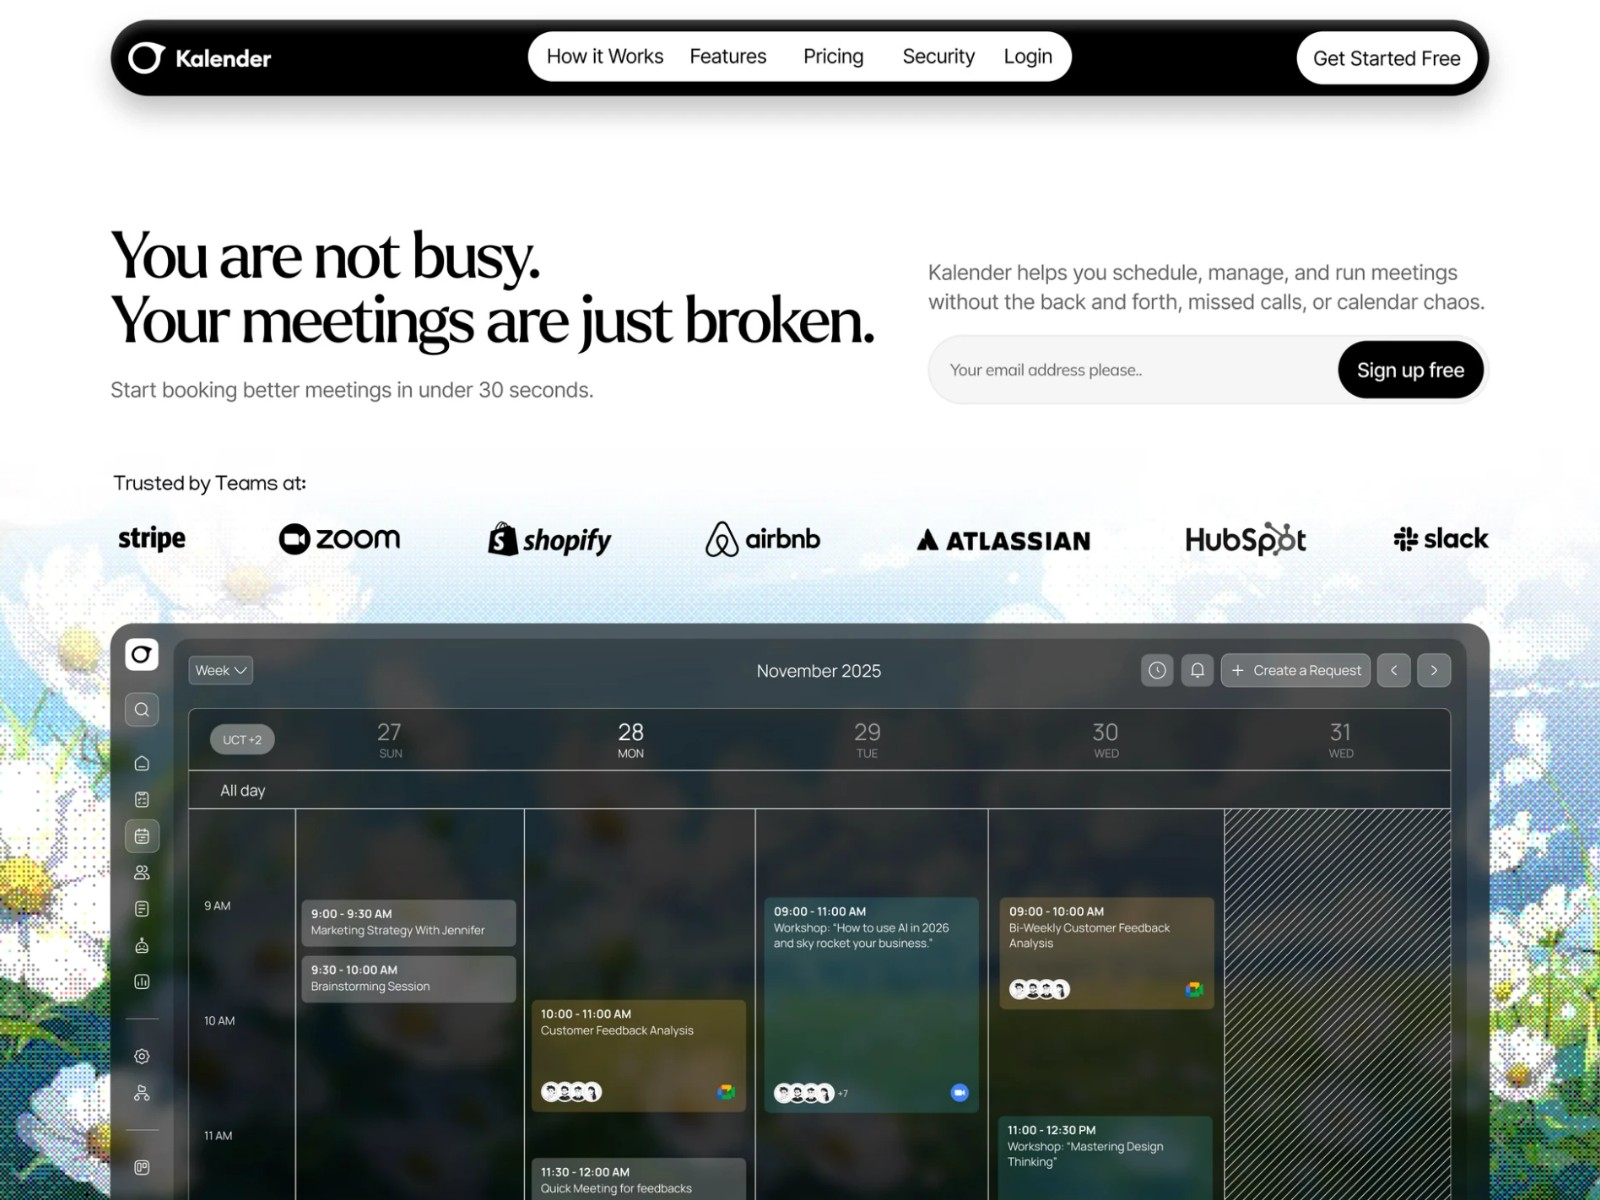
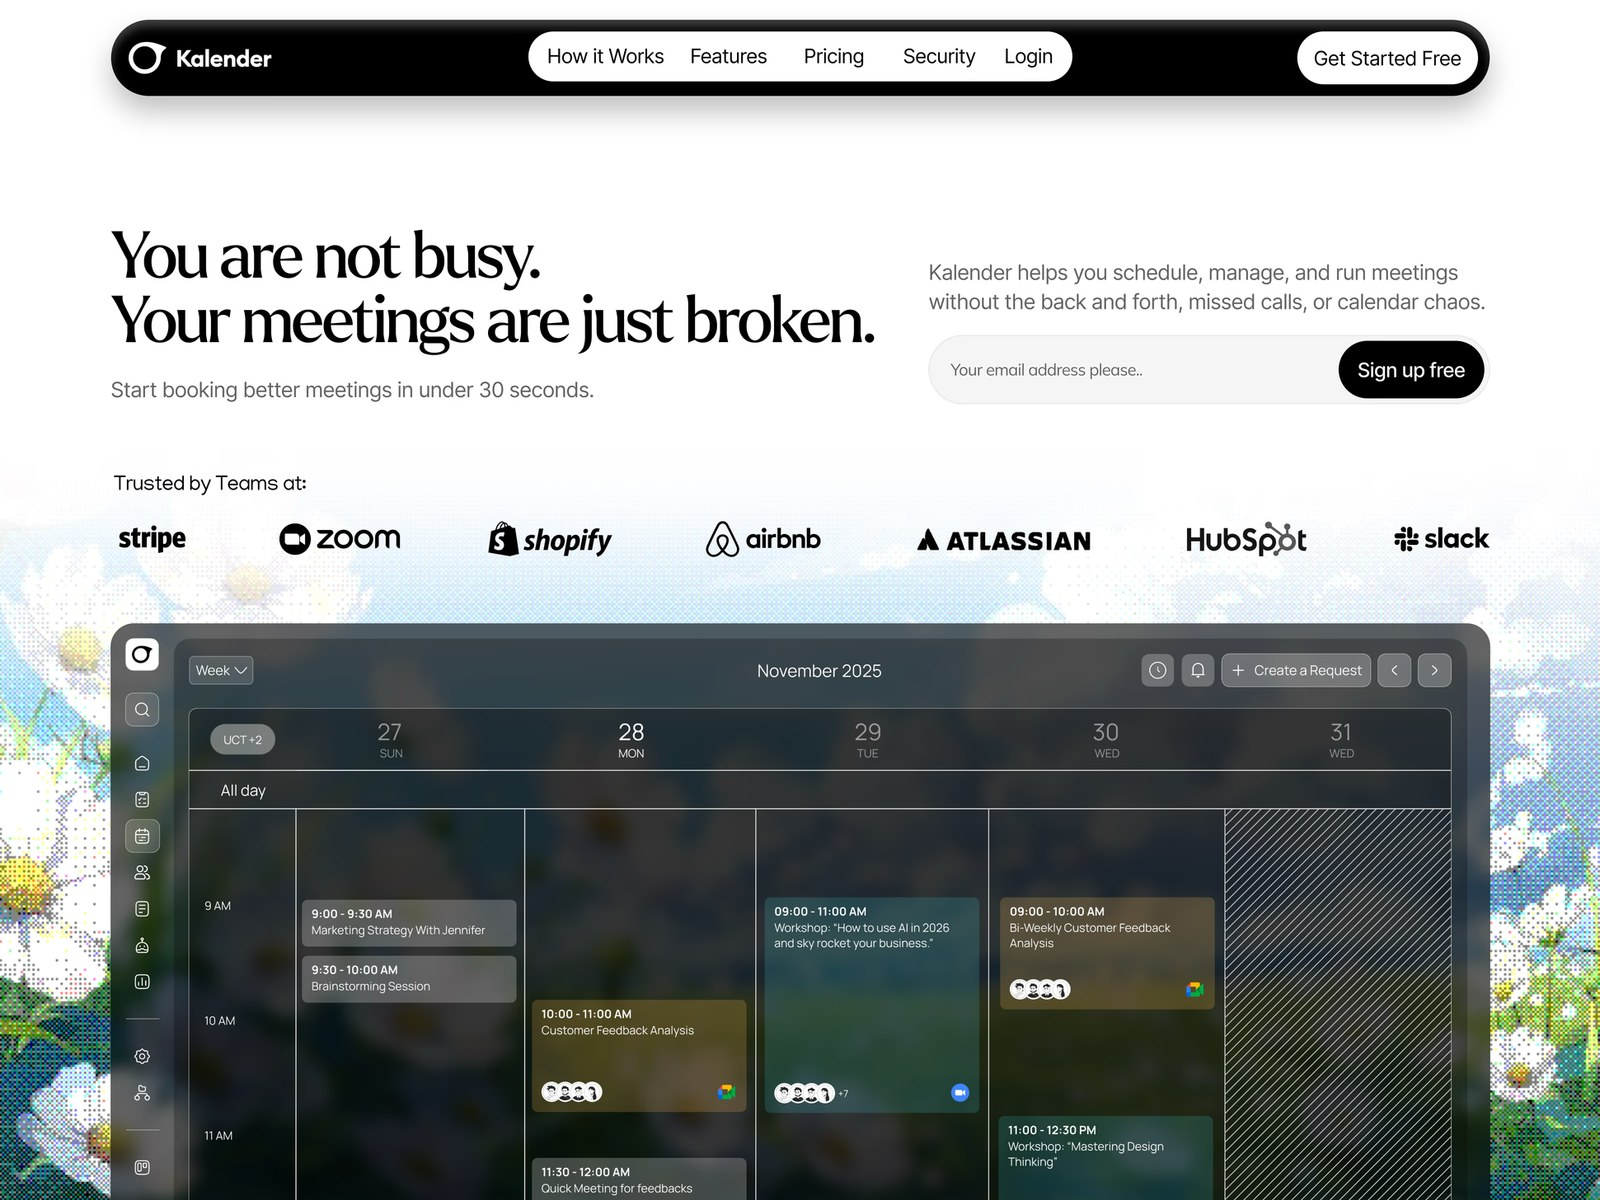
Kalender tile uses Denny's full screenshot, work row band tightened, Kalender and Mantel on /work
The homepage Kalender tile is recropped from the screenshot Denny sent,
4:3 from the full frame rather than a top crop, so the calendar reads
instead of being cut mid-row and the dead white under the nav is gone.

The white gap under the work row is closed: the work band was pb-16
md:pb-24 running straight into a py-16 md:py-24 band of the same colour,
so 192px of nothing sat between the price line and Three parts. Now
pb-10 md:pb-14 into pt-10 md:pt-14, about 112px.

/work gains 05 · Interface design: Kalender at full width beside Mantel,
both labelled Studio design, not client work, because neither is a paid
build and the page's own rule is no concepts dressed up as clients. The
lede lists them and drops the "everything here is live" claim for
"everything here is real and ours", since a design is not a live product.

Claude-Session: https://claude.ai/code/session_0156teUjLvgFM4uZhVFuAvCb

diff --git a/src/app/work/page.tsx b/src/app/work/page.tsx
@@ -32,7 +32,7 @@ export default function Work() {
         <div className="relative max-w-6xl mx-auto">
           <div className="flex items-center justify-between border-b border-rule pb-4 mb-12">
             <p className="label">Work</p>
-            <p className="label">Everything here is real and live</p>
+            <p className="label">Everything here is real and ours</p>
           </div>
           {/* Not "a short list, on purpose". That apologised for the count
               before anybody saw the work. This is an invitation instead. */}
@@ -43,9 +43,9 @@ export default function Work() {
           </h1>
           <p className="lede max-w-reading mt-10">
             A storefront built end to end, three reels cut for sound-off feeds,
-            a product animation and brand graphics for clients. Everything here
-            is live and
-            every piece of it was made by us. If you have something you want
+            a product animation, brand graphics for clients and two interface
+            designs. Everything here was made by us, and nothing on this page
+            is a concept dressed up as a client. If you have something you want
             built,{" "}
             <Link
               href="/intake"
@@ -499,6 +499,106 @@ export default function Work() {
                     <p className="text-sm text-ink-soft">{v}</p>
                   </div>
                 ))}
+              </div>
+            </div>
+          </div>
+        </div>
+      </section>
+
+      {/* ---------- 05 · Interface design ----------
+          The two screens the homepage row shows as a taste, at full size. A
+          marketing page that has to sell inside one screen, and a first app
+          screen that has to explain a product before anybody taps anything.
+          Both are studio design work, labelled that way rather than dressed
+          up as client builds, per the rule the top of this page sets. */}
+      <section data-flow className="px-6 py-24 border-t border-rule">
+        <div className="max-w-6xl mx-auto">
+          <div className="grid md:grid-cols-12 gap-10 mb-10">
+            <div className="md:col-span-6">
+              <p className="label mb-4">05 · Interface design</p>
+              <h2 className="font-display text-5xl leading-none mb-4">
+                The screen doing
+                <br />
+                all of the selling.
+              </h2>
+            </div>
+            <p className="md:col-span-6 text-ink-soft leading-relaxed self-end max-w-reading">
+              A landing page and a first app screen have the same job. Say what
+              the thing is, say why it is worth a minute, and leave one obvious
+              next move. These two are studio design work, drawn to be handed
+              to a build and shipped without a second pass.
+            </p>
+          </div>
+
+          <div className="grid md:grid-cols-12 gap-6 md:gap-8 items-start">
+            <div className="md:col-span-8">
+              <div className="panel overflow-hidden">
+                {/* eslint-disable-next-line @next/next/no-img-element */}
+                <img
+                  src="/assets/work-kalender-full.jpg"
+                  alt="Kalender landing page: a black pill navigation, the headline You are not busy, your meetings are just broken, an email sign-up beside it, a trusted-by logo row and a dark week calendar sitting over a field of daisies"
+                  className="w-full h-auto block"
+                  loading="lazy"
+                />
+              </div>
+              <div className="mt-6">
+                <p className="label mb-3">Studio design</p>
+                <h3 className="font-display text-3xl leading-none mb-3">Kalender</h3>
+                <p className="text-ink-soft font-light leading-relaxed max-w-reading">
+                  A scheduling tool sells on one promise, so the page leads with
+                  the objection instead of the feature list. The headline names
+                  the problem, the sign-up sits at eye level next to it, and the
+                  product itself carries the rest of the screen. The calendar is
+                  shown running, not described.
+                </p>
+                <div className="border-t border-rule mt-6 pt-4 grid grid-cols-2 sm:grid-cols-4 gap-4">
+                  {[
+                    ["Piece", "Landing page"],
+                    ["Screens", "One, above the fold"],
+                    ["Type", "Serif headline, grotesk UI"],
+                    ["Made for", "Sign-ups"],
+                  ].map(([k, v]) => (
+                    <div key={k}>
+                      <p className="label mb-1.5">{k}</p>
+                      <p className="text-sm text-ink-soft">{v}</p>
+                    </div>
+                  ))}
+                </div>
+              </div>
+            </div>
+
+            <div className="md:col-span-4">
+              <div className="panel overflow-hidden">
+                {/* eslint-disable-next-line @next/next/no-img-element */}
+                <img
+                  src="/assets/work-mantel-full.jpg"
+                  alt="Mantel app welcome screen on a phone: a cluster of gold framed family photos, the Mantel wordmark, the line Rescue your memories, make them physical, and a Get Started button"
+                  className="w-full h-auto block"
+                  loading="lazy"
+                />
+              </div>
+              <div className="mt-6">
+                <p className="label mb-3">Studio design</p>
+                <h3 className="font-display text-3xl leading-none mb-3">Mantel</h3>
+                <p className="text-ink-soft font-light leading-relaxed max-w-reading">
+                  The first screen of an app has one job, and it is not
+                  onboarding. The framed photos say what the product makes
+                  before the wordmark says its name, so the line underneath
+                  only has to confirm it. One button, no account wall.
+                </p>
+                <div className="border-t border-rule mt-6 pt-4 grid grid-cols-2 gap-4">
+                  {[
+                    ["Piece", "Mobile app screen"],
+                    ["Format", "Phone, first run"],
+                    ["Actions", "One"],
+                    ["Made for", "The App Store shot"],
+                  ].map(([k, v]) => (
+                    <div key={k}>
+                      <p className="label mb-1.5">{k}</p>
+                      <p className="text-sm text-ink-soft">{v}</p>
+                    </div>
+                  ))}
+                </div>
               </div>
             </div>
           </div>

diff --git a/src/app/page.tsx b/src/app/page.tsx
@@ -221,7 +221,7 @@ export default function Home() {
           screens says what the reel said and does not need to be played.
           The price row under it is the pitch in one line. */}
       <section
-        className="band-light relative overflow-hidden px-6 pb-16 md:pb-24 pt-12 md:pt-16"
+        className="band-light relative overflow-hidden px-6 pb-10 md:pb-14 pt-12 md:pt-16"
         style={{
           background: "linear-gradient(180deg, #EAF1FB 0%, #F7FAFF 100%)",
         }}
@@ -345,7 +345,7 @@ export default function Home() {
           are the whole offer and a hairline border was not carrying that.
           Each card is tinted with its own part colour so the three read as a
           set before a single word is read. */}
-      <section data-flow className="band-light px-6 py-16 md:py-24">
+      <section data-flow className="band-light px-6 pt-10 md:pt-14 pb-16 md:pb-24">
         <div className="max-w-6xl mx-auto">
           <div className="flex items-center flex-wrap gap-y-2 mb-6">
             {[
